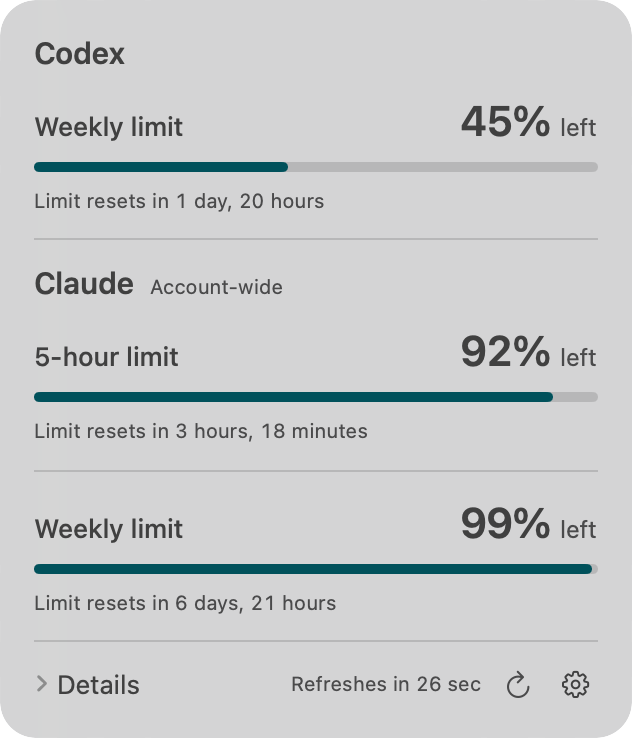
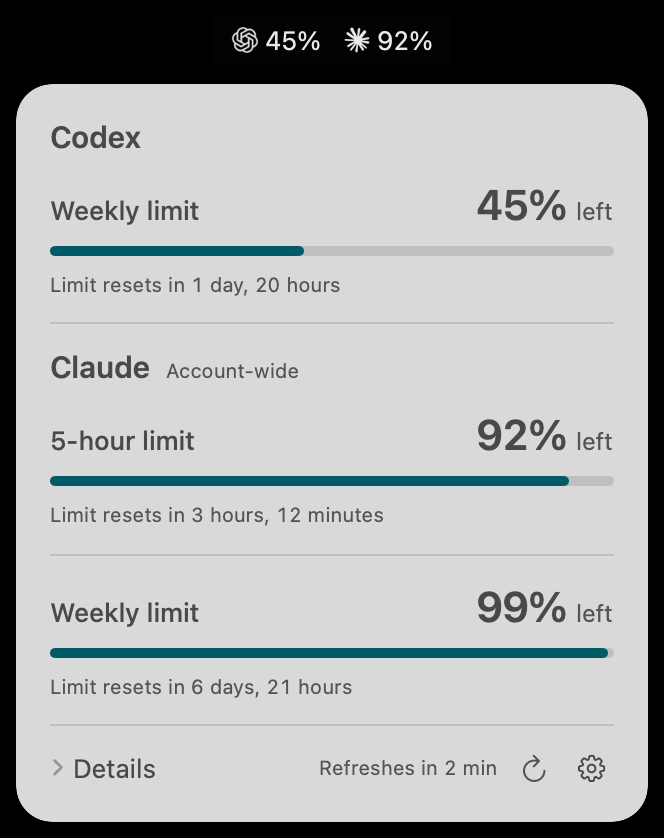
Include menu bar percentages in the dropdown screenshot

Changed region(s): [[0.0, 0.0, 1.0, 1.0], [0.4509, 0.9038, 0.7516, 0.935], [0.0601, 0.1558, 0.3006, 0.187]]

diff --git a/README.md b/README.md
@@ -2,7 +2,7 @@
 
 QuotaBar shows Codex and Claude usage in the macOS menu bar. **Amount Left** is the default. Secondary-click the menu bar item (two-finger click or Control-click), or click the percentage inside the dropdown, to switch between **Amount Left** and **Amount Used**. You can also choose **Settings → Show Percentage As**. The choice applies to both providers and survives relaunch. Each status reading uses the most constrained active usage window.
 
-<img src="docs/images/dropdown.png" width="316" alt="QuotaBar dropdown showing the remaining Codex weekly limit and Claude five-hour and weekly limits, with a reset countdown beneath each bar.">
+<img src="docs/images/dropdown.png" width="332" alt="Codex and Claude percentages in the macOS menu bar above the open QuotaBar dropdown, which shows usage limits and reset countdowns.">
 
 Choose **Settings → Help** for a quick guide to clicks, shortcuts, and usage readings. Click the menu bar item to open or close the dropdown. With both providers enabled, the dropdown shows both providers’ limits above Details, even with a single menu-bar badge. In Details, select Codex or Claude to switch between their token totals and reset controls. An unavailable reading opens its details with either click. Each current usage bar shows a countdown to its reported reset. Refresh and Settings stay in the bottom-right corner. Expand **Details** once to see available resets and local token history together. QuotaBar remembers whether Details is expanded across providers and launches.
 
